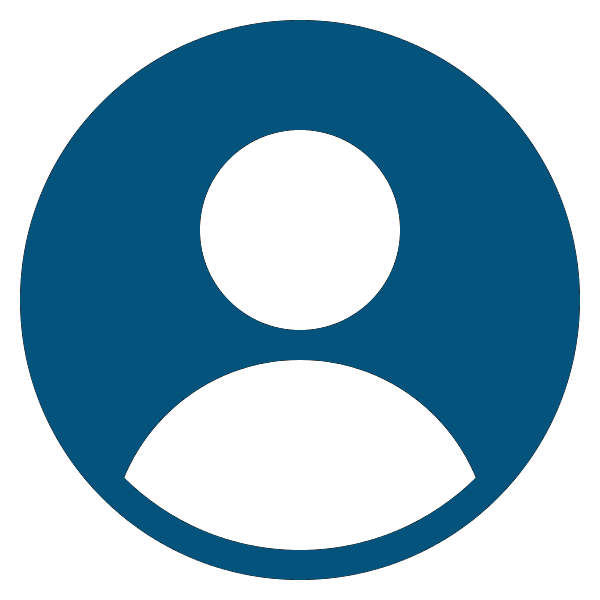
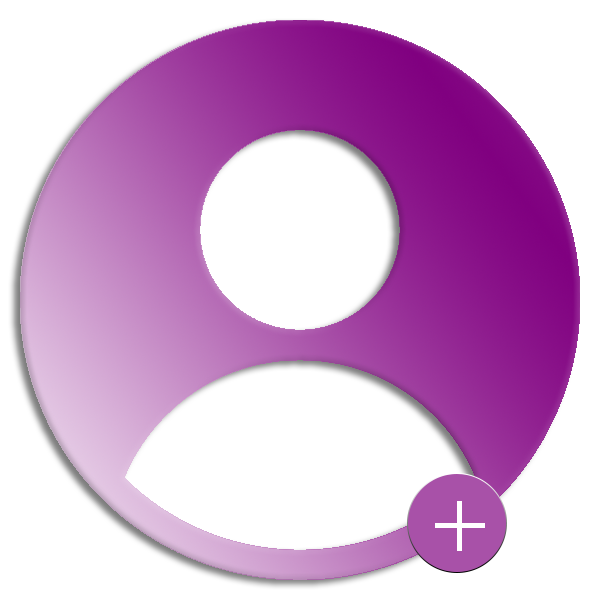
change add profile picture and add some logic to non spotify users

diff --git a/Client/SolMate/routes/RegisterRoute.tsx b/Client/SolMate/routes/RegisterRoute.tsx
@@ -6,6 +6,7 @@ import {
   TouchableOpacity,
   Alert,
   ScrollView,
+  FlatList,
 } from "react-native";
 import Icon from "react-native-vector-icons/FontAwesome5";
 import {
@@ -15,6 +16,8 @@ import {
   Image,
   SearchBar,
   Button,
+  ListItem,
+  Avatar,
 } from "react-native-elements";
 import axios from "axios";
 import * as WebBrowser from "expo-web-browser";
@@ -41,6 +44,7 @@ import * as ImagePicker from "expo-image-picker";
 import { encode as btoa } from "base-64";
 import * as Location from "expo-location";
 import * as Permissions from "expo-permissions";
+
 WebBrowser.maybeCompleteAuthSession();
 
 export interface IUserForm {
@@ -69,12 +73,13 @@ export default function Register({ navigation }) {
   var currentDateMoreThan18 = new Date();
   currentDateMoreThan18.setFullYear(new Date().getFullYear() - 18);
   const [isLoading, setIsLoading] = useState(false);
-  const [search, updateSearch] = useState("");
+  const [search, setSearch] = useState("");
   const [noSpotify, setNoSpotify] = useState(false);
   const [errors, setErrors] = useState({});
   const { dispatch } = useContext(userContext);
   const { dispatchToken } = useContext(tokenContext);
   const [image, setImage] = useState(null);
+  const [songList, setSongList] = useState([{}]);
 
   const [formData, setFormData] = useState<IUserForm>({
     email: "",
@@ -324,6 +329,27 @@ export default function Register({ navigation }) {
     });
   }, []);
 
+  const updateSearch = async (search) => {
+    setSearch(search);
+  };
+
+  const keyExtractor = (item, index) => index.toString();
+
+  const renderItem = ({ item }) => (
+    <ListItem bottomDivider >
+      <CheckBox/>
+      <Avatar
+        title={item.name[0]}
+        source={item.avatar_url && { uri: item.avatar_url }}
+      />
+      <ListItem.Content>
+        <ListItem.Title>{item.name}</ListItem.Title>
+        <ListItem.Subtitle>{item.subtitle}</ListItem.Subtitle>
+      </ListItem.Content>
+      <ListItem.Chevron />
+    </ListItem>
+  );
+
   return (
     <ScrollView
       contentContainerStyle={{
@@ -558,10 +584,10 @@ export default function Register({ navigation }) {
           <TouchableOpacity
             style={[
               registerStyle.SpotifyButton,
-              response ? { opacity: 0.3 } : { opacity: 1 },
+              response || noSpotify ? { opacity: 0.3 } : { opacity: 1 },
             ]}
-            activeOpacity={response ? 0.5 : 1}
-            disabled={response !== null}
+            activeOpacity={response || noSpotify ? 0.5 : 1}
+            disabled={response !== null || noSpotify}
             onPress={() => {
               promptAsync().then(async (response) => {
                 if (response) {
@@ -684,7 +710,18 @@ export default function Register({ navigation }) {
                         backgroundColor: "#333333",
                         marginTop: 20,
                       }}
+                      onChangeText={updateSearch}
+                      value={search}
                     />
+                    <View
+                      style={{ borderRadius: 40, backgroundColor: "#333333" }}
+                    >
+                      <FlatList
+                        keyExtractor={this.keyExtractor}
+                        data={songList}
+                        renderItem={this.renderItem}
+                      />
+                    </View>
                   </View>
                 )}
               </View>
